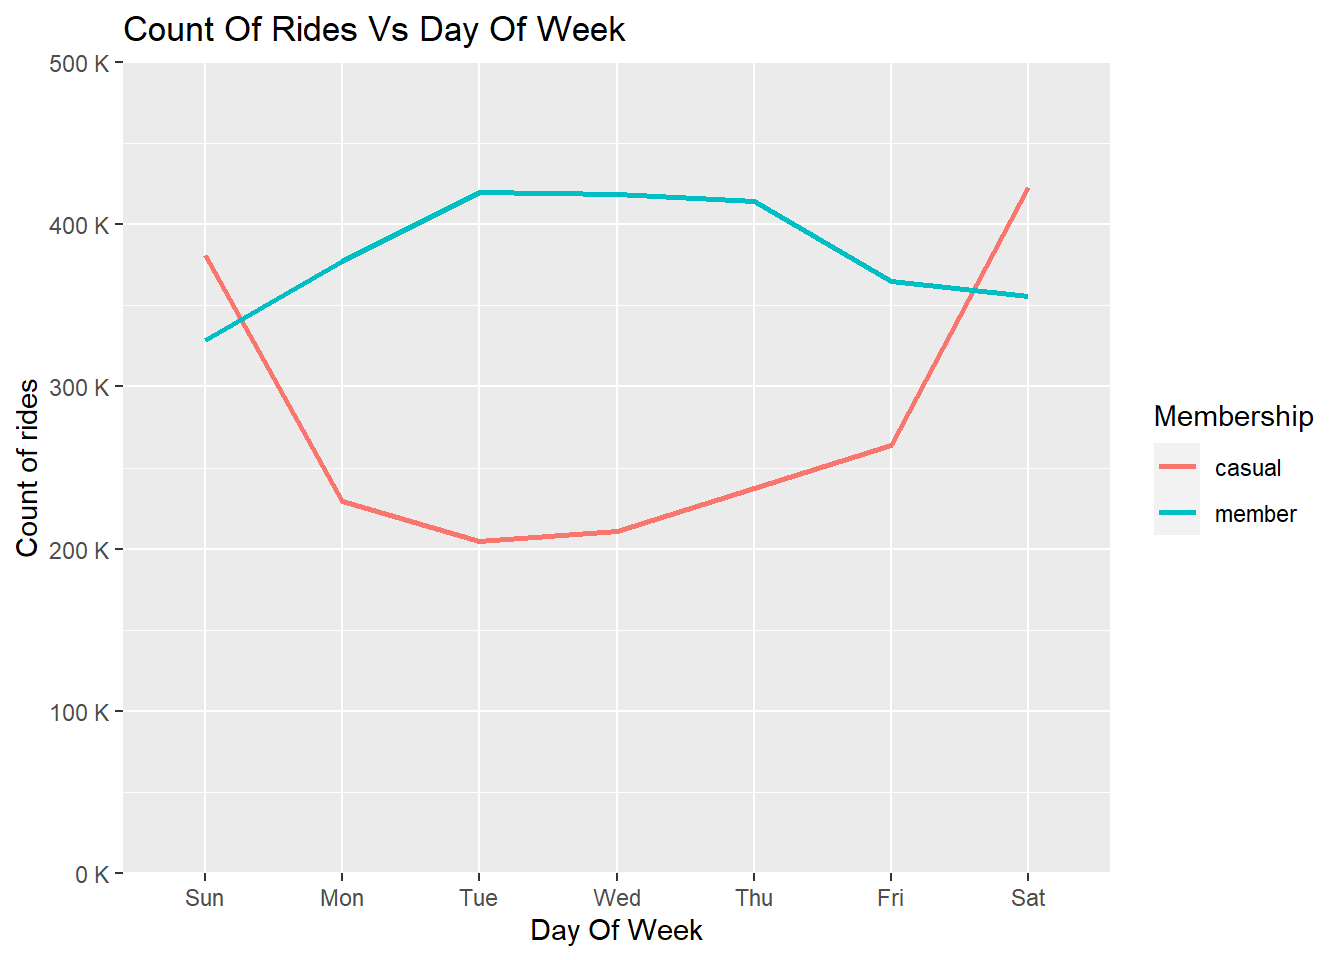
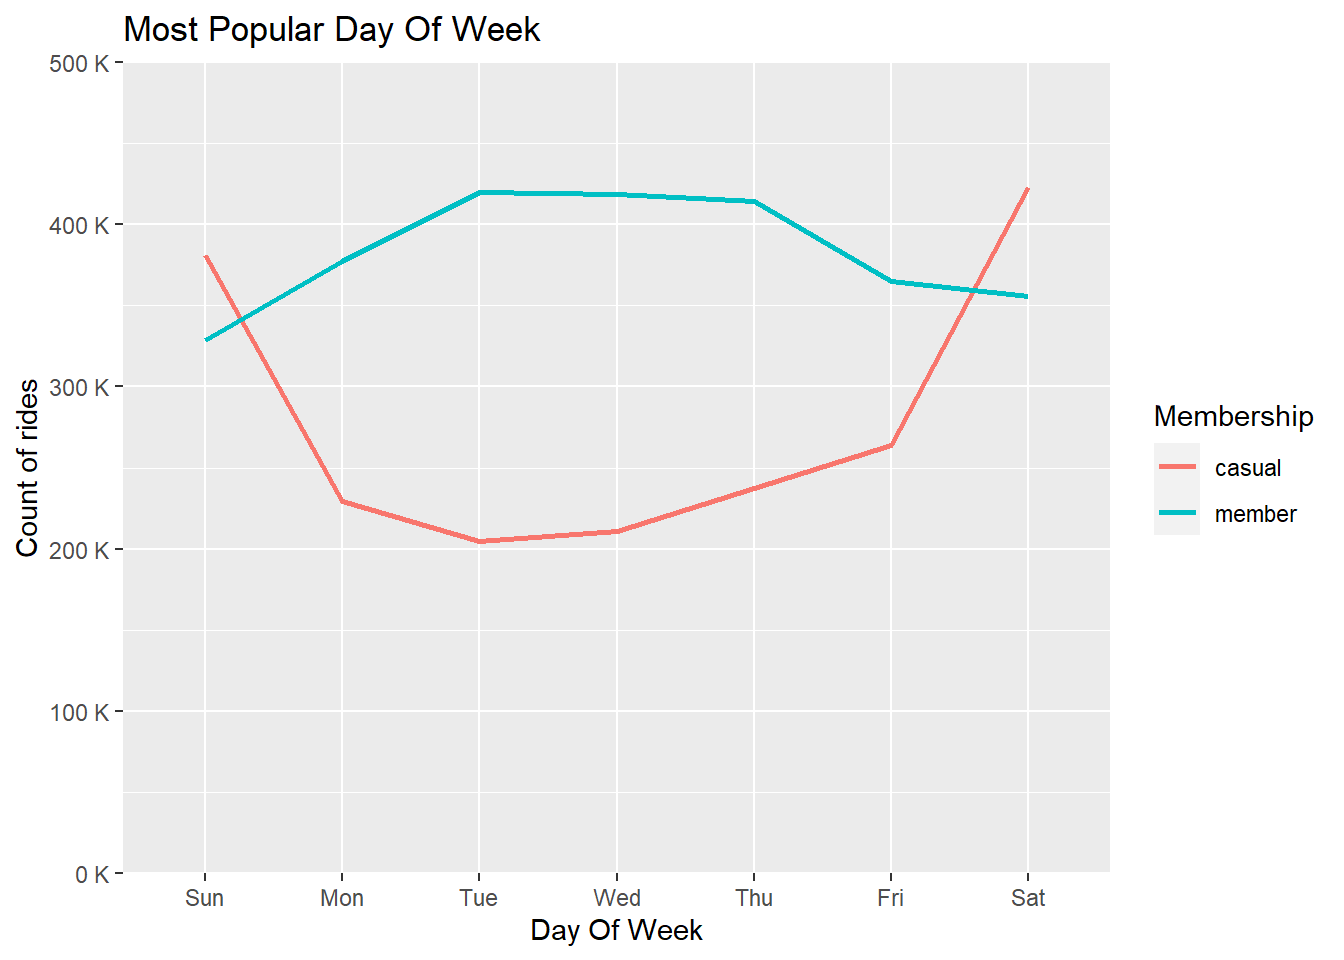
Updation in title for some charts

Changed region(s): [[0.0938, 0.0, 0.4688, 0.0625]]

diff --git a/docs/Data-Analysis---Visualization.html b/docs/Data-Analysis---Visualization.html
@@ -581,7 +581,7 @@ rides_day_week %&gt;%
   ggplot(aes(x = day_of_week, y = total_trips_by_day, group = member_casual, color=member_casual)) +
   geom_line(size=1) +
   scale_y_continuous(expand = c(0, 0), limits=c(0,500000),labels = label_number(suffix = &quot; K&quot;, scale = 1e-3)) +
-  labs(x=&quot;Day Of Week&quot;,y=&quot;Count of rides&quot;, title=&quot;Count Of Rides Vs Day Of Week&quot;) +
+  labs(x=&quot;Day Of Week&quot;,y=&quot;Count of rides&quot;, title=&quot;Most Popular Day Of Week&quot;) +
   guides(color = guide_legend(title = &quot;Membership&quot;))</code></pre>
 <p><img src="Data-Analysis---Visualization_files/figure-html/unnamed-chunk-15-1.png" width="672" /></p>
 <p>From above, we can conclude that more no. of rides are being done by
